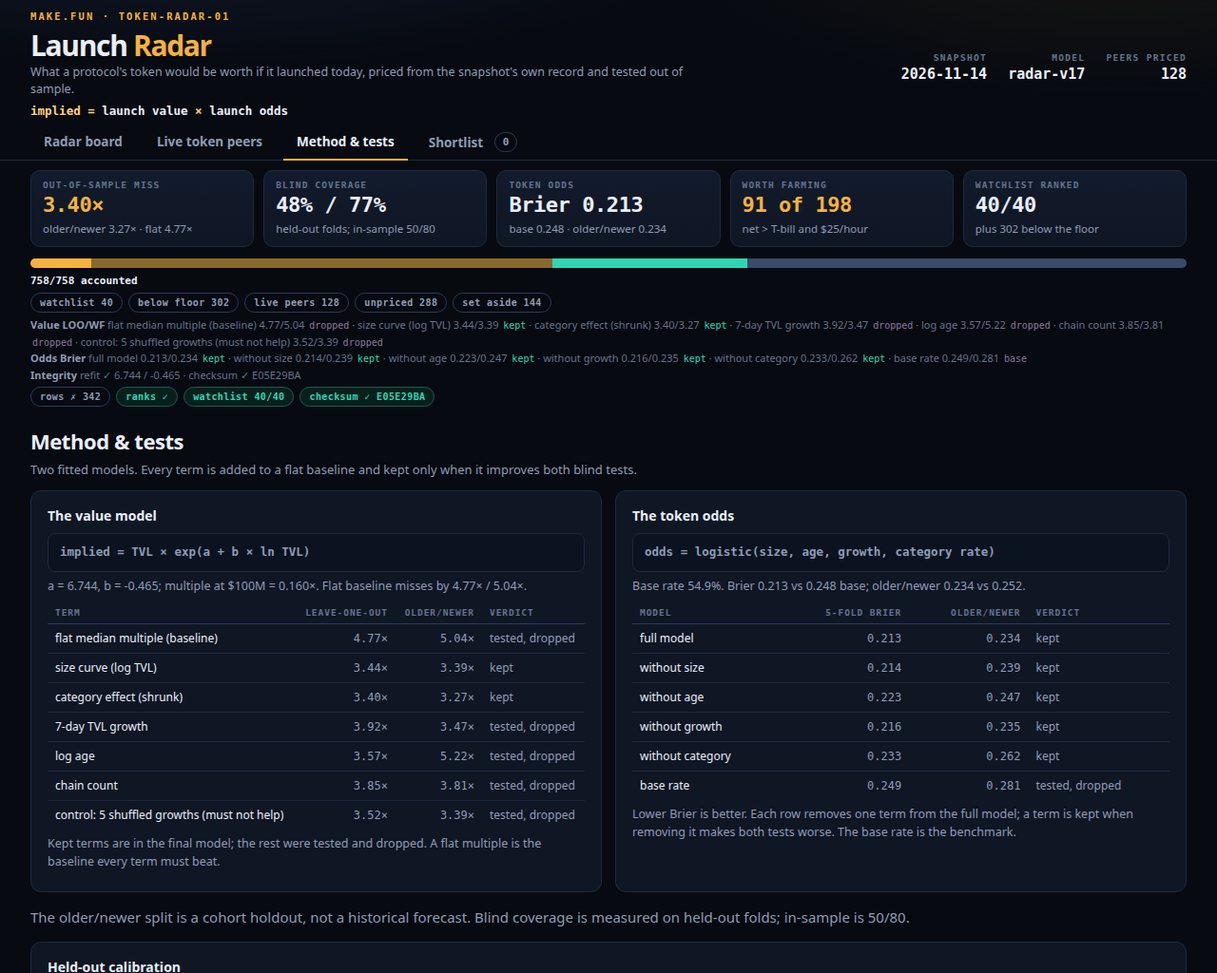
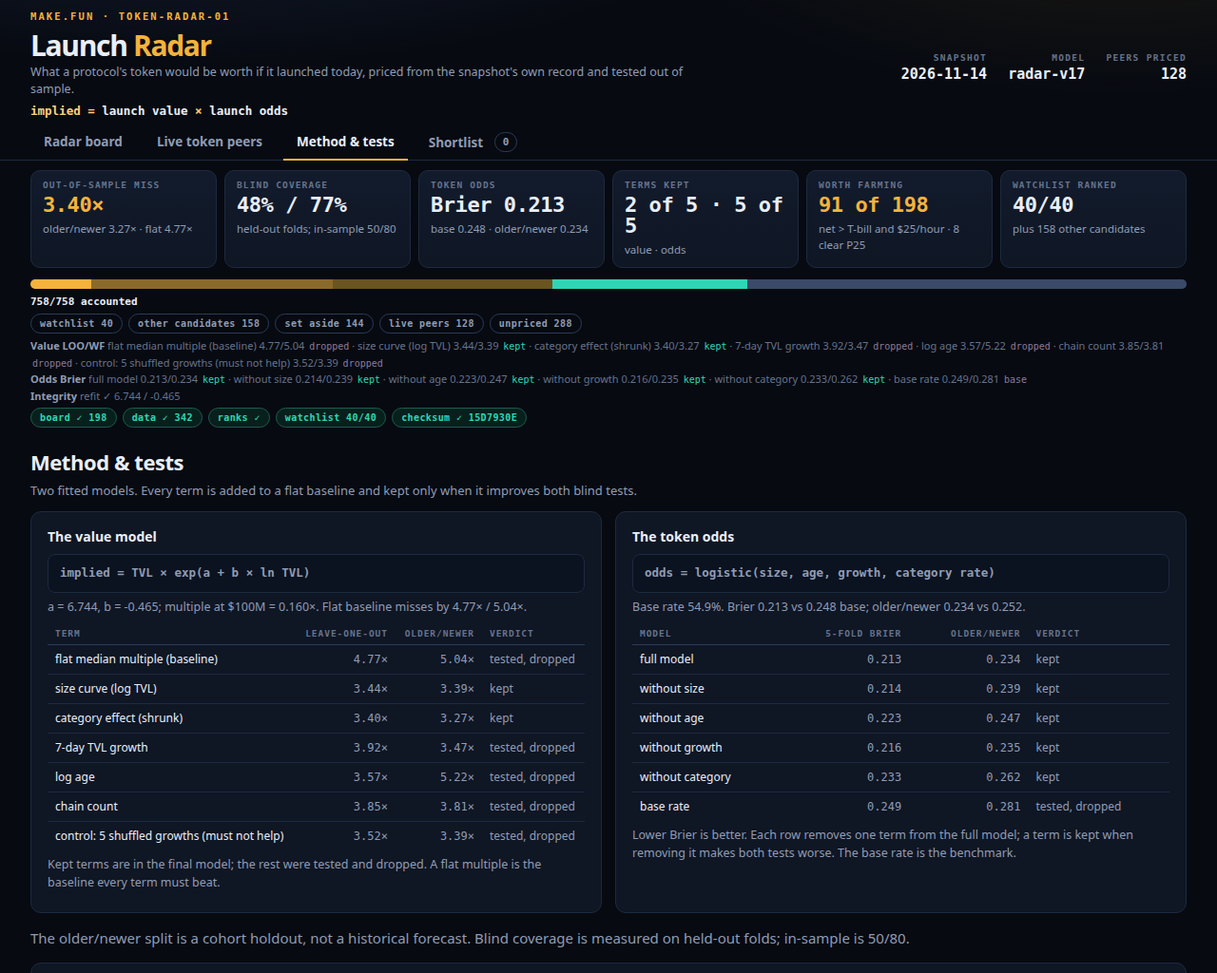
Tighten v17 accounting, integrity and detail evidence

Changed region(s): [[0.0, 0.1562, 0.9688, 1.0]]

diff --git a/dashboard/app.css b/dashboard/app.css
@@ -1,1 +1,1 @@
-:root{ --bg:#070a11;--panel:#0f1624;--panel2:#121b2c;--line:#1e2a40;--line2:#2b3b59; --text:#e9eef8;--mute:#8f9cb4;--dim:#66738c;--amber:#f5b33c;--amber2:#ffd07a; --teal:#2fd6b5;--red:#ff7b8a;--purple:#9a86b8; --mono:ui-monospace,"SF Mono",SFMono-Regular,Menlo,Consolas,monospace; }*{box-sizing:border-box}[hidden]{display:none!important}html{background:var(--bg)}body{margin:0;color:var(--text);font:15px/1.5 system-ui,-apple-system,"Segoe UI",Roboto,sans-serif; background:radial-gradient(1100px 420px at 16% -10%,#18233a 0%,transparent 60%),radial-gradient(900px 380px at 92% -6%,#1d1a12 0%,transparent 55%),var(--bg)}a{color:inherit}.skip{position:absolute;left:-999px;top:0;background:#fff;color:#000;padding:8px;z-index:20}.skip:focus{left:8px}.top{max-width:1440px;margin:0 auto;padding:12px 32px 6px;display:flex;justify-content:space-between;gap:24px;align-items:center}.eyebrow{display:block;font:600 10.5px/1 var(--mono);letter-spacing:.2em;text-transform:uppercase;color:var(--amber);margin-bottom:10px}h1{margin:0;font-size:30px;line-height:1;letter-spacing:-.045em;font-weight:740}h1 span{color:var(--amber)}.tagline{margin:4px 0 0;max-width:720px;color:var(--mute);font-size:12.5px}.stamp{display:flex;gap:22px;padding-top:4px}.stamp div{text-align:right}.stamp span{display:block;font:600 9.5px/1 var(--mono);letter-spacing:.14em;text-transform:uppercase;color:var(--dim)}.stamp b{display:block;margin-top:6px;font:600 15px/1 var(--mono)}.tabs{max-width:1440px;margin:0 auto;padding:0 32px;display:flex;gap:8px;border-bottom:1px solid var(--line)}.tabs a{padding:7px 14px;text-decoration:none;color:var(--mute);font-size:13.5px;font-weight:600;border-bottom:2px solid transparent;margin-bottom:-1px}.tabs a[aria-current=page]{color:var(--text);border-bottom-color:var(--amber)}.tabs a:hover{color:var(--text)}main{max-width:1440px;margin:0 auto;padding:10px 32px 30px}.kpis{display:grid;grid-template-columns:repeat(5,1fr);gap:10px}.kpi{background:linear-gradient(180deg,var(--panel2),var(--panel));border:1px solid var(--line);border-radius:10px;padding:10px 12px;min-height:74px}.kpi span{display:block;font:600 9.5px/1 var(--mono);letter-spacing:.12em;text-transform:uppercase;color:var(--dim)}.kpi b{display:block;margin-top:5px;font:600 22px/1 var(--mono);letter-spacing:-.02em}.kpi em{display:block;margin-top:5px;font-style:normal;font-size:11.5px;color:var(--mute)}.kpi.hot b{color:var(--amber)}.kpi.chartCard{display:flex;flex-direction:column;justify-content:space-between;padding:10px 10px 8px}.kpi.chartCard svg{width:100%;height:52px;display:block}.eqLine{margin:4px 0 0;color:var(--amber2);font:600 12.5px/1.4 var(--mono)}.eqLine b{color:var(--text)}.vchips{display:flex;gap:6px;margin:6px 0 10px;flex-wrap:wrap}.vchips button{font:600 10px/1.5 var(--mono);padding:3px 9px;border-radius:999px;background:transparent;color:var(--mute);border:1px solid var(--line2)}.vchips button.on{color:var(--amber2);border-color:#6a5420;background:#1f1808}.chipRow{display:flex;gap:6px;flex-wrap:wrap;margin-top:4px}.statusline{margin:12px 0 4px;color:var(--mute);font-size:12px}.ledgerBar{display:flex;height:10px;border-radius:5px;overflow:hidden;background:#1b2639;margin:0 0 5px}.ledgerBar i{display:block;height:100%}.ledgerBar i.w{background:var(--amber)}.ledgerBar i.e{background:#8a6a2a}.ledgerBar i.l{background:var(--teal)}.ledgerBar i.u{background:#3a4a68}.ledgerLegend{display:block;color:var(--dim);font-size:11px}.ledgerLegend b{color:var(--text);font-family:var(--mono)}.chip{display:inline-block;border:1px solid var(--line2);border-radius:999px;padding:2px 9px;font:600 10px/1.5 var(--mono);letter-spacing:.04em;color:var(--mute)}.chip.watch{color:var(--amber2);border-color:#6a5420;background:#231a08}.chip.ok{color:var(--teal);border-color:#1d5c50;background:#08201c}.flowArrow{color:#33415e;font:600 13px var(--mono)}.flowItem{color:var(--mute);font-size:12px}.flowItem b{font-family:var(--mono);color:var(--text);font-size:12.5px}.flowItem.hot b{color:var(--amber)}.flowItem.ok b{color:var(--teal)}.flowNote{color:var(--dim);font-size:11px;margin-left:8px}.contract{margin:0 0 14px;color:var(--dim);font-size:11px;line-height:1.55}.evLine b{color:var(--mute);font-weight:600}.evLine i{font-style:normal;font-family:var(--mono);font-size:10px;margin-left:2px}.evLine i.up{color:var(--teal)}.evLine i.flat{color:#8a7a9a}.shareTable{margin:8px 0 4px}.shareTable tr.current td{color:var(--text);font-weight:600}.shareTable td:last-child{text-transform:uppercase;font-size:10px;letter-spacing:.04em}.toolbar{display:flex;gap:12px;align-items:flex-end;flex-wrap:wrap;padding:12px 0 8px}.toolbar label{display:flex;flex-direction:column;gap:4px}.toolbar label>span{font:600 9.5px/1 var(--mono);letter-spacing:.12em;text-transform:uppercase;color:var(--dim)}input,select,button{font:inherit;color:var(--text);background:var(--panel2);border:1px solid var(--line2);border-radius:7px;padding:8px 11px}input::placeholder{color:var(--dim)}input:focus,select:focus,button:focus-visible,a:focus-visible{outline:2px solid var(--amber);outline-offset:2px}.search input{width:240px}button{cursor:pointer}button.ghost{background:transparent;color:var(--mute)}button.ghost:hover{color:var(--text);border-color:var(--amber)}.sub{padding:2px 0 10px;justify-content:space-between}.count{margin:0;color:var(--mute);font-size:12.5px}.count b{color:var(--text);font-family:var(--mono)}.legend{display:flex;gap:14px;align-items:center;color:var(--dim);font-size:11.5px}.legend span{display:flex;align-items:center;gap:6px}.legend .sep{width:1px;height:14px;background:var(--line2)}.legend .sample{font-style:normal}.dot{width:8px;height:8px;border-radius:50%;display:inline-block;background:var(--dim)}.dot.v-worth{background:var(--teal);box-shadow:0 0 8px #2fd6b566}.dot.v-marginal{background:var(--amber)}.dot.v-skip{background:#b06a7a}.tableWrap{border:1px solid var(--line);border-radius:11px;overflow:auto;max-height:calc(100vh - 340px);background:#0b111c}table{border-collapse:collapse;width:100%;min-width:1180px}#table{table-layout:fixed;min-width:0}#table th:nth-child(2),#table td:nth-child(2){width:58px}#table th:nth-child(3),#table td:nth-child(3){width:auto}#table th:nth-child(4),#table td:nth-child(4){width:92px}#table th:nth-child(5),#table td:nth-child(5){width:90px}#table th:nth-child(6),#table td:nth-child(6){width:105px}#table th:nth-child(7),#table td:nth-child(7){width:130px}#table th:nth-child(8),#table td:nth-child(8){width:80px}#table th:nth-child(9),#table td:nth-child(9){width:80px}th,td{padding:6px 8px;text-align:left;border-bottom:1px solid var(--line);vertical-align:middle}th{position:sticky;top:0;z-index:2;background:#111a2a;font:600 9.5px/1.2 var(--mono);letter-spacing:.1em;text-transform:uppercase;color:var(--dim);white-space:nowrap;cursor:pointer;user-select:none}th small{display:block;font:500 9px/1.3 var(--mono);letter-spacing:.02em;text-transform:none;color:#5b6880;margin-top:2px}th:hover{color:var(--text)}th[data-active=asc]::after{content:' ↑';color:var(--amber)}th[data-active=desc]::after{content:' ↓';color:var(--amber)}th.num,td.num{text-align:right;font-variant-numeric:tabular-nums}tbody tr{cursor:pointer}tbody tr:hover{background:#121c2e}tbody tr:last-child td{border-bottom:0}td.rank{font:600 12px/1 var(--mono);color:var(--dim)}td.rank b{color:var(--amber)}.name{font-weight:650;font-size:14px}.name .chip{margin-left:7px;vertical-align:1px}.subline{margin-top:2px;color:var(--dim);font-size:11.5px;max-width:300px;overflow:hidden;text-overflow:ellipsis;white-space:nowrap}td.money{font:600 12.5px/1 var(--mono)}td.implied{font:700 15px/1 var(--mono);color:var(--amber2)}td.multiple{font:500 12.5px/1 var(--mono)}td.age{font:500 11.5px/1 var(--mono);color:var(--mute)}td.bandText{font:500 11px/1 var(--mono);color:var(--mute);white-space:nowrap}.up{color:var(--teal)}.dn{color:var(--red)}.flat{color:var(--dim)}.starcol{width:34px;padding-right:0}.star{background:none;border:0;color:#3c4a63;font-size:17px;line-height:1;padding:2px 5px;border-radius:5px}.star:hover{color:var(--amber2)}.star.on{color:var(--amber)}.oddsCell{padding-top:6px;padding-bottom:6px}.odds{display:flex;align-items:center;gap:6px;justify-content:flex-end}.odds .track{width:52px;height:6px;background:#1b2639;border-radius:4px;overflow:hidden}.odds .track i{display:block;height:100%;background:linear-gradient(90deg,#1c6f60,#2fd6b5);border-radius:4px}.odds b{font:600 11px/1 var(--mono);color:var(--text);min-width:32px;text-align:right}.odds.wide{margin-top:4px}.odds.wide .track{width:100%;height:8px}.oddsBig{font:700 22px/1 var(--mono);color:var(--teal)}.verdict{display:inline-block;border-radius:5px;padding:2px 7px;font:700 9.5px/1.5 var(--mono);letter-spacing:.06em;border:1px solid transparent}.verdict.v-worth{background:#0b3a31;color:#5ff0d0;border-color:#1d6b5c}.verdict.v-marginal{background:#2a210c;color:#ffd07a;border-color:#6a5420}.verdict.v-skip{background:#2a1218;color:#ff9fae;border-color:#6a2a36}.verdictHead{display:flex;justify-content:space-between;align-items:center;gap:10px;margin-bottom:8px}.verdictHead b{font:600 13px/1.3 var(--mono)}.empty{padding:30px;text-align:center;color:var(--dim)}.footnote{margin:10px 2px 0;color:var(--dim);font-size:11.5px;max-width:960px}.pill{display:inline-block;margin-left:8px;border:1px solid var(--line2);border-radius:999px;padding:1px 8px;font:600 11px/1.6 var(--mono);color:var(--mute);vertical-align:2px}.sectionHead{padding:6px 0 12px}.sectionHead h2{margin:0 0 4px;font-size:22px;letter-spacing:-.02em}.sectionHead p{margin:0;color:var(--mute);font-size:13px;max-width:860px}.foot{max-width:1440px;margin:0 auto;padding:18px 32px 34px;border-top:1px solid var(--line);display:flex;justify-content:space-between;gap:20px;color:var(--dim);font-size:11.5px}.back{display:inline-flex;align-items:center;gap:8px;color:var(--mute);text-decoration:none;font-size:12.5px;margin:2px 0 14px}.back:hover{color:var(--amber)}.detailTop{border:1px solid var(--line);border-radius:12px;padding:18px 22px;background:linear-gradient(180deg,#141d2f,#0d1421)}.detailTitle{display:flex;align-items:baseline;gap:12px;flex-wrap:wrap;margin:0}.detailTitle h2{margin:0;font-size:32px;letter-spacing:-.03em}.rankChip{font:700 12px/1 var(--mono);color:#1b1305;background:var(--amber);border-radius:6px;padding:5px 8px}.rankChip.dim{background:#243149;color:var(--mute)}.detailMeta{margin-top:6px;color:var(--mute);font-size:13px}.detailMeta b{color:var(--text);font-weight:600}.notCand{margin-top:12px;border:1px solid #6a5420;background:#221a09;color:#ffd8a0;border-radius:8px;padding:9px 12px;font-size:12.5px}.statGrid{display:grid;grid-template-columns:repeat(4,1fr);gap:10px;margin:14px 0}.stat{background:var(--panel);border:1px solid var(--line);border-radius:10px;padding:12px 14px}.stat span{font:600 9.5px/1 var(--mono);letter-spacing:.12em;text-transform:uppercase;color:var(--dim)}.stat b{display:block;margin-top:7px;font:700 23px/1 var(--mono);letter-spacing:-.02em}.stat b.hot{color:var(--amber2)}.stat em{display:block;margin-top:5px;font-style:normal;color:var(--mute);font-size:11.5px}.cols{display:grid;grid-template-columns:1.02fr .98fr;gap:14px;align-items:start}.cols>*{min-width:0}.panel{background:var(--panel);border:1px solid var(--line);border-radius:11px;padding:15px 17px}.panel h3{margin:0 0 8px;font-size:14px}.panel h3:not(:first-child){margin-top:16px}.panel p{margin:6px 0;color:var(--mute);font-size:12.5px}.terms{display:grid;grid-template-columns:repeat(3,1fr);gap:8px;margin:10px 0}.term{background:#0b1220;border:1px solid var(--line);border-radius:8px;padding:9px 10px}.term span{display:block;font:600 9px/1.2 var(--mono);letter-spacing:.1em;text-transform:uppercase;color:var(--dim)}.term b{display:block;margin-top:5px;font:700 15px/1 var(--mono)}.term em{display:block;margin-top:4px;font-style:normal;font-size:10.5px;color:var(--dim)}.term.result{border-color:#6a5420;background:#1f1808}.term.result b{color:var(--amber2)}table.mini{width:100%;min-width:0;border-collapse:collapse;font-size:12px}table.mini th{position:static;background:transparent;border-bottom:1px solid var(--line2);padding:6px 8px;cursor:default;font-size:9.5px}table.mini td{padding:6px 8px;border-bottom:1px solid var(--line);color:var(--mute)}table.mini td:first-child{color:var(--text)}table.mini td.num{font-family:var(--mono)}.sandbox{margin:12px 0 6px;background:#0b1220;border:1px solid var(--line);border-radius:9px;padding:12px}.sbHead{display:flex;justify-content:space-between;align-items:center;gap:10px}.sbHead h4{margin:0;font-size:12px}.sbReset{font-size:11px;padding:3px 9px}.sbHint{margin:4px 0 8px;font-size:11px;color:var(--dim)}.sbRow{display:grid;grid-template-columns:94px 1fr 74px;gap:10px;align-items:center;font-size:11.5px;color:var(--mute);margin:5px 0}.sbRow input[type=range]{width:100%;accent-color:var(--amber);background:none;border:0;padding:0}.sbRow b{font-family:var(--mono);font-size:11.5px;color:var(--text);text-align:right}.sbOut{display:flex;gap:10px;align-items:baseline;margin-top:10px;border-top:1px solid var(--line);padding-top:9px;flex-wrap:wrap}.sbOut span{font:600 9px var(--mono);letter-spacing:.1em;text-transform:uppercase;color:var(--dim)}.sbOut b{font:700 19px var(--mono);color:var(--amber2)}.sbOut em{font-style:normal;color:var(--dim);font-size:10.5px}.planTable{table-layout:fixed;width:100%}.planTable td{vertical-align:top}.planTable th:nth-child(1),.planTable td:nth-child(1){width:24px}.planTable th:nth-child(3),.planTable td.cost{width:110px}.planTable th:nth-child(4),.planTable td.time{width:70px}.planTable td:nth-child(2){white-space:normal;word-break:break-word;color:var(--mute);line-height:1.45}.planTable td.cost{font-family:var(--mono);white-space:normal;line-height:1.35;color:var(--amber2);font-size:11px}.planTable td.time{font-family:var(--mono);white-space:normal;line-height:1.35;color:var(--dim);font-size:11px}.verdict{border-left:0}.verdictHead + .terms{margin-top:8px}.dd{margin:6px 0 0;padding-left:18px;color:var(--mute);font-size:12.5px}.dd li{margin:4px 0}.muted{color:var(--mute)}.eq{font:600 14px/1.5 var(--mono);color:var(--amber2);background:#0b1220;border:1px solid var(--line);border-radius:8px;padding:10px 12px}.chartWide{margin-bottom:14px}#calChart svg{width:100%;height:auto;display:block}.methodGrid{display:grid;grid-template-columns:1fr 1fr;gap:14px;margin-bottom:14px}.scoreRow{display:flex;gap:10px;margin-top:10px;flex-wrap:wrap}.score{background:#0b1220;border:1px solid var(--line);border-radius:8px;padding:9px 12px;flex:1;min-width:110px}.score span{display:block;font:600 9px/1.2 var(--mono);letter-spacing:.1em;text-transform:uppercase;color:var(--dim)}.score b{display:block;margin-top:4px;font:700 18px/1 var(--mono)}.score em{display:block;margin-top:3px;font-style:normal;font-size:10.5px;color:var(--dim)}.limits{margin:6px 0;padding-left:18px;color:var(--mute);font-size:12.5px}.limits li{margin:4px 0}.source{margin-top:10px;font-size:11px;word-break:break-word}.compareTable{width:100%;border-collapse:collapse;background:var(--panel);border:1px solid var(--line);border-radius:10px;overflow:hidden;font-size:12.5px}.compareTable th,.compareTable td{padding:9px 12px;border-bottom:1px solid var(--line);text-align:left}.compareTable th{position:static;background:#111a2a;font:600 10px var(--mono);letter-spacing:.1em;text-transform:uppercase;color:var(--dim);cursor:default}.compareTable th.num,.compareTable td.num{text-align:right;font-family:var(--mono)}.compareTable td:first-child{color:var(--mute);white-space:nowrap}.inlineLink{color:var(--amber);text-decoration:none;border-bottom:1px solid #6a5420}@media (max-width:1100px){.kpis{grid-template-columns:repeat(3,1fr)}.cols,.methodGrid{grid-template-columns:1fr}.terms{grid-template-columns:repeat(2,1fr)}.statGrid{grid-template-columns:repeat(2,1fr)}.stamp{display:none}}.planTotals{grid-template-columns:repeat(6,1fr)}.planList{margin-top:8px}@media (max-width:1100px){.planTotals{grid-template-columns:repeat(3,1fr)}}
+:root{ --bg:#070a11;--panel:#0f1624;--panel2:#121b2c;--line:#1e2a40;--line2:#2b3b59; --text:#e9eef8;--mute:#8f9cb4;--dim:#66738c;--amber:#f5b33c;--amber2:#ffd07a; --teal:#2fd6b5;--red:#ff7b8a;--purple:#9a86b8; --mono:ui-monospace,"SF Mono",SFMono-Regular,Menlo,Consolas,monospace; }*{box-sizing:border-box}[hidden]{display:none!important}html{background:var(--bg)}body{margin:0;color:var(--text);font:15px/1.5 system-ui,-apple-system,"Segoe UI",Roboto,sans-serif; background:radial-gradient(1100px 420px at 16% -10%,#18233a 0%,transparent 60%),radial-gradient(900px 380px at 92% -6%,#1d1a12 0%,transparent 55%),var(--bg)}a{color:inherit}.skip{position:absolute;left:-999px;top:0;background:#fff;color:#000;padding:8px;z-index:20}.skip:focus{left:8px}.top{max-width:1440px;margin:0 auto;padding:12px 32px 6px;display:flex;justify-content:space-between;gap:24px;align-items:center}.eyebrow{display:block;font:600 10.5px/1 var(--mono);letter-spacing:.2em;text-transform:uppercase;color:var(--amber);margin-bottom:10px}h1{margin:0;font-size:30px;line-height:1;letter-spacing:-.045em;font-weight:740}h1 span{color:var(--amber)}.tagline{margin:4px 0 0;max-width:720px;color:var(--mute);font-size:12.5px}.stamp{display:flex;gap:22px;padding-top:4px}.stamp div{text-align:right}.stamp span{display:block;font:600 9.5px/1 var(--mono);letter-spacing:.14em;text-transform:uppercase;color:var(--dim)}.stamp b{display:block;margin-top:6px;font:600 15px/1 var(--mono)}.tabs{max-width:1440px;margin:0 auto;padding:0 32px;display:flex;gap:8px;border-bottom:1px solid var(--line)}.tabs a{padding:7px 14px;text-decoration:none;color:var(--mute);font-size:13.5px;font-weight:600;border-bottom:2px solid transparent;margin-bottom:-1px}.tabs a[aria-current=page]{color:var(--text);border-bottom-color:var(--amber)}.tabs a:hover{color:var(--text)}main{max-width:1440px;margin:0 auto;padding:10px 32px 30px}.kpis{display:grid;grid-template-columns:repeat(6,1fr);gap:8px}.kpi{background:linear-gradient(180deg,var(--panel2),var(--panel));border:1px solid var(--line);border-radius:10px;padding:10px 12px;min-height:74px}.kpi span{display:block;font:600 9.5px/1 var(--mono);letter-spacing:.12em;text-transform:uppercase;color:var(--dim)}.kpi b{display:block;margin-top:5px;font:600 22px/1 var(--mono);letter-spacing:-.02em}.kpi em{display:block;margin-top:5px;font-style:normal;font-size:11.5px;color:var(--mute)}.kpi.hot b{color:var(--amber)}.kpi.chartCard{display:flex;flex-direction:column;justify-content:space-between;padding:10px 10px 8px}.kpi.chartCard svg{width:100%;height:52px;display:block}.eqLine{margin:4px 0 0;color:var(--amber2);font:600 12.5px/1.4 var(--mono)}.eqLine b{color:var(--text)}.vchips{display:flex;gap:6px;margin:6px 0 10px;flex-wrap:wrap}.vchips button{font:600 10px/1.5 var(--mono);padding:3px 9px;border-radius:999px;background:transparent;color:var(--mute);border:1px solid var(--line2)}.vchips button.on{color:var(--amber2);border-color:#6a5420;background:#1f1808}.chipRow{display:flex;gap:6px;flex-wrap:wrap;margin-top:4px}.statusline{margin:12px 0 4px;color:var(--mute);font-size:12px}.ledgerBar{display:flex;height:10px;border-radius:5px;overflow:hidden;background:#1b2639;margin:0 0 5px}.ledgerBar i{display:block;height:100%}.ledgerBar i.w{background:var(--amber)}.ledgerBar i.e{background:#8a6a2a}.ledgerBar i.s{background:#6a5420}.ledgerBar i.l{background:var(--teal)}.ledgerBar i.u{background:#3a4a68}.ledgerLegend{display:block;color:var(--dim);font-size:11px}.ledgerLegend b{color:var(--text);font-family:var(--mono)}.chip{display:inline-block;border:1px solid var(--line2);border-radius:999px;padding:2px 9px;font:600 10px/1.5 var(--mono);letter-spacing:.04em;color:var(--mute)}.chip.watch{color:var(--amber2);border-color:#6a5420;background:#231a08}.chip.ok{color:var(--teal);border-color:#1d5c50;background:#08201c}.flowArrow{color:#33415e;font:600 13px var(--mono)}.flowItem{color:var(--mute);font-size:12px}.flowItem b{font-family:var(--mono);color:var(--text);font-size:12.5px}.flowItem.hot b{color:var(--amber)}.flowItem.ok b{color:var(--teal)}.flowNote{color:var(--dim);font-size:11px;margin-left:8px}.contract{margin:0 0 14px;color:var(--dim);font-size:11px;line-height:1.55}.evLine b{color:var(--mute);font-weight:600}.evLine i{font-style:normal;font-family:var(--mono);font-size:10px;margin-left:2px}.evLine i.up{color:var(--teal)}.evLine i.flat{color:#8a7a9a}.shareTable{margin:8px 0 4px}.shareTable tr.current td{color:var(--text);font-weight:600}.shareTable td:last-child{text-transform:uppercase;font-size:10px;letter-spacing:.04em}.toolbar{display:flex;gap:12px;align-items:flex-end;flex-wrap:wrap;padding:12px 0 8px}.toolbar label{display:flex;flex-direction:column;gap:4px}.toolbar label>span{font:600 9.5px/1 var(--mono);letter-spacing:.12em;text-transform:uppercase;color:var(--dim)}input,select,button{font:inherit;color:var(--text);background:var(--panel2);border:1px solid var(--line2);border-radius:7px;padding:8px 11px}input::placeholder{color:var(--dim)}input:focus,select:focus,button:focus-visible,a:focus-visible{outline:2px solid var(--amber);outline-offset:2px}.search input{width:240px}button{cursor:pointer}button.ghost{background:transparent;color:var(--mute)}button.ghost:hover{color:var(--text);border-color:var(--amber)}.sub{padding:2px 0 10px;justify-content:space-between}.count{margin:0;color:var(--mute);font-size:12.5px}.count b{color:var(--text);font-family:var(--mono)}.legend{display:flex;gap:14px;align-items:center;color:var(--dim);font-size:11.5px}.legend span{display:flex;align-items:center;gap:6px}.legend .sep{width:1px;height:14px;background:var(--line2)}.legend .sample{font-style:normal}.dot{width:8px;height:8px;border-radius:50%;display:inline-block;background:var(--dim)}.dot.v-worth{background:var(--teal);box-shadow:0 0 8px #2fd6b566}.dot.v-marginal{background:var(--amber)}.dot.v-skip{background:#b06a7a}.tableWrap{border:1px solid var(--line);border-radius:11px;overflow:auto;max-height:calc(100vh - 340px);background:#0b111c}table{border-collapse:collapse;width:100%;min-width:1180px}#table{table-layout:fixed;min-width:0}#table th:nth-child(2),#table td:nth-child(2){width:58px}#table th:nth-child(3),#table td:nth-child(3){width:auto}#table th:nth-child(4),#table td:nth-child(4){width:92px}#table th:nth-child(5),#table td:nth-child(5){width:90px}#table th:nth-child(6),#table td:nth-child(6){width:105px}#table th:nth-child(7),#table td:nth-child(7){width:130px}#table th:nth-child(8),#table td:nth-child(8){width:80px}#table th:nth-child(9),#table td:nth-child(9){width:80px}th,td{padding:6px 8px;text-align:left;border-bottom:1px solid var(--line);vertical-align:middle}th{position:sticky;top:0;z-index:2;background:#111a2a;font:600 9.5px/1.2 var(--mono);letter-spacing:.1em;text-transform:uppercase;color:var(--dim);white-space:nowrap;cursor:pointer;user-select:none}th small{display:block;font:500 9px/1.3 var(--mono);letter-spacing:.02em;text-transform:none;color:#5b6880;margin-top:2px}th:hover{color:var(--text)}th[data-active=asc]::after{content:' ↑';color:var(--amber)}th[data-active=desc]::after{content:' ↓';color:var(--amber)}th.num,td.num{text-align:right;font-variant-numeric:tabular-nums}tbody tr{cursor:pointer}tbody tr:hover{background:#121c2e}tbody tr:last-child td{border-bottom:0}td.rank{font:600 12px/1 var(--mono);color:var(--dim)}td.rank b{color:var(--amber)}.name{font-weight:650;font-size:14px}.name .chip{margin-left:7px;vertical-align:1px}.subline{margin-top:2px;color:var(--dim);font-size:11.5px;max-width:300px;overflow:hidden;text-overflow:ellipsis;white-space:nowrap}td.money{font:600 12.5px/1 var(--mono)}td.implied{font:700 15px/1 var(--mono);color:var(--amber2)}td.multiple{font:500 12.5px/1 var(--mono)}td.age{font:500 11.5px/1 var(--mono);color:var(--mute)}td.bandText{font:500 11px/1 var(--mono);color:var(--mute);white-space:nowrap}.up{color:var(--teal)}.dn{color:var(--red)}.flat{color:var(--dim)}.starcol{width:34px;padding-right:0}.star{background:none;border:0;color:#3c4a63;font-size:17px;line-height:1;padding:2px 5px;border-radius:5px}.star:hover{color:var(--amber2)}.star.on{color:var(--amber)}.oddsCell{padding-top:6px;padding-bottom:6px}.odds{display:flex;align-items:center;gap:6px;justify-content:flex-end}.odds .track{width:52px;height:6px;background:#1b2639;border-radius:4px;overflow:hidden}.odds .track i{display:block;height:100%;background:linear-gradient(90deg,#1c6f60,#2fd6b5);border-radius:4px}.odds b{font:600 11px/1 var(--mono);color:var(--text);min-width:32px;text-align:right}.odds.wide{margin-top:4px}.odds.wide .track{width:100%;height:8px}.oddsBig{font:700 22px/1 var(--mono);color:var(--teal)}.verdict{display:inline-block;border-radius:5px;padding:2px 7px;font:700 9.5px/1.5 var(--mono);letter-spacing:.06em;border:1px solid transparent}.verdict.v-worth{background:#0b3a31;color:#5ff0d0;border-color:#1d6b5c}.verdict.v-marginal{background:#2a210c;color:#ffd07a;border-color:#6a5420}.verdict.v-skip{background:#2a1218;color:#ff9fae;border-color:#6a2a36}.verdictHead{display:flex;justify-content:space-between;align-items:center;gap:10px;margin-bottom:8px}.verdictHead b{font:600 13px/1.3 var(--mono)}.empty{padding:30px;text-align:center;color:var(--dim)}.footnote{margin:10px 2px 0;color:var(--dim);font-size:11.5px;max-width:960px}.pill{display:inline-block;margin-left:8px;border:1px solid var(--line2);border-radius:999px;padding:1px 8px;font:600 11px/1.6 var(--mono);color:var(--mute);vertical-align:2px}.sectionHead{padding:6px 0 12px}.sectionHead h2{margin:0 0 4px;font-size:22px;letter-spacing:-.02em}.sectionHead p{margin:0;color:var(--mute);font-size:13px;max-width:860px}.foot{max-width:1440px;margin:0 auto;padding:18px 32px 34px;border-top:1px solid var(--line);display:flex;justify-content:space-between;gap:20px;color:var(--dim);font-size:11.5px}.back{display:inline-flex;align-items:center;gap:8px;color:var(--mute);text-decoration:none;font-size:12.5px;margin:2px 0 14px}.back:hover{color:var(--amber)}.detailTop{border:1px solid var(--line);border-radius:12px;padding:18px 22px;background:linear-gradient(180deg,#141d2f,#0d1421)}.detailTitle{display:flex;align-items:baseline;gap:12px;flex-wrap:wrap;margin:0}.detailTitle h2{margin:0;font-size:32px;letter-spacing:-.03em}.rankChip{font:700 12px/1 var(--mono);color:#1b1305;background:var(--amber);border-radius:6px;padding:5px 8px}.rankChip.dim{background:#243149;color:var(--mute)}.detailMeta{margin-top:6px;color:var(--mute);font-size:13px}.detailMeta b{color:var(--text);font-weight:600}.notCand{margin-top:12px;border:1px solid #6a5420;background:#221a09;color:#ffd8a0;border-radius:8px;padding:9px 12px;font-size:12.5px}.statGrid{display:grid;grid-template-columns:repeat(4,1fr);gap:10px;margin:14px 0}.stat{background:var(--panel);border:1px solid var(--line);border-radius:10px;padding:12px 14px}.stat span{font:600 9.5px/1 var(--mono);letter-spacing:.12em;text-transform:uppercase;color:var(--dim)}.stat b{display:block;margin-top:7px;font:700 23px/1 var(--mono);letter-spacing:-.02em}.stat b.hot{color:var(--amber2)}.stat em{display:block;margin-top:5px;font-style:normal;color:var(--mute);font-size:11.5px}.cols{display:grid;grid-template-columns:1.02fr .98fr;gap:14px;align-items:start}.cols>*{min-width:0}.panel{background:var(--panel);border:1px solid var(--line);border-radius:11px;padding:15px 17px}.panel h3{margin:0 0 8px;font-size:14px}.panel h3:not(:first-child){margin-top:16px}.panel p{margin:6px 0;color:var(--mute);font-size:12.5px}.terms{display:grid;grid-template-columns:repeat(3,1fr);gap:8px;margin:10px 0}.term{background:#0b1220;border:1px solid var(--line);border-radius:8px;padding:9px 10px}.term span{display:block;font:600 9px/1.2 var(--mono);letter-spacing:.1em;text-transform:uppercase;color:var(--dim)}.term b{display:block;margin-top:5px;font:700 15px/1 var(--mono)}.term em{display:block;margin-top:4px;font-style:normal;font-size:10.5px;color:var(--dim)}.term.result{border-color:#6a5420;background:#1f1808}.term.result b{color:var(--amber2)}table.mini{width:100%;min-width:0;border-collapse:collapse;font-size:12px}table.mini th{position:static;background:transparent;border-bottom:1px solid var(--line2);padding:6px 8px;cursor:default;font-size:9.5px}table.mini td{padding:6px 8px;border-bottom:1px solid var(--line);color:var(--mute)}table.mini td:first-child{color:var(--text)}table.mini td.num{font-family:var(--mono)}.sandbox{margin:12px 0 6px;background:#0b1220;border:1px solid var(--line);border-radius:9px;padding:12px}.sbHead{display:flex;justify-content:space-between;align-items:center;gap:10px}.sbHead h4{margin:0;font-size:12px}.sbReset{font-size:11px;padding:3px 9px}.sbHint{margin:4px 0 8px;font-size:11px;color:var(--dim)}.sbRow{display:grid;grid-template-columns:94px 1fr 74px;gap:10px;align-items:center;font-size:11.5px;color:var(--mute);margin:5px 0}.sbRow input[type=range]{width:100%;accent-color:var(--amber);background:none;border:0;padding:0}.sbRow b{font-family:var(--mono);font-size:11.5px;color:var(--text);text-align:right}.sbOut{display:flex;gap:10px;align-items:baseline;margin-top:10px;border-top:1px solid var(--line);padding-top:9px;flex-wrap:wrap}.sbOut span{font:600 9px var(--mono);letter-spacing:.1em;text-transform:uppercase;color:var(--dim)}.sbOut b{font:700 19px var(--mono);color:var(--amber2)}.sbOut em{font-style:normal;color:var(--dim);font-size:10.5px}.planTable{table-layout:fixed;width:100%}.planTable td{vertical-align:top}.planTable th:nth-child(1),.planTable td:nth-child(1){width:24px}.planTable th:nth-child(3),.planTable td.cost{width:110px}.planTable th:nth-child(4),.planTable td.time{width:70px}.planTable td:nth-child(2){white-space:normal;word-break:break-word;color:var(--mute);line-height:1.45}.planTable td.cost{font-family:var(--mono);white-space:normal;line-height:1.35;color:var(--amber2);font-size:11px}.planTable td.time{font-family:var(--mono);white-space:normal;line-height:1.35;color:var(--dim);font-size:11px}.verdict{border-left:0}.verdictHead + .terms{margin-top:8px}.dd{margin:6px 0 0;padding-left:18px;color:var(--mute);font-size:12.5px}.dd li{margin:4px 0}.muted{color:var(--mute)}.eq{font:600 14px/1.5 var(--mono);color:var(--amber2);background:#0b1220;border:1px solid var(--line);border-radius:8px;padding:10px 12px}.chartWide{margin-bottom:14px}#calChart svg{width:100%;height:auto;display:block}.methodGrid{display:grid;grid-template-columns:1fr 1fr;gap:14px;margin-bottom:14px}.scoreRow{display:flex;gap:10px;margin-top:10px;flex-wrap:wrap}.score{background:#0b1220;border:1px solid var(--line);border-radius:8px;padding:9px 12px;flex:1;min-width:110px}.score span{display:block;font:600 9px/1.2 var(--mono);letter-spacing:.1em;text-transform:uppercase;color:var(--dim)}.score b{display:block;margin-top:4px;font:700 18px/1 var(--mono)}.score em{display:block;margin-top:3px;font-style:normal;font-size:10.5px;color:var(--dim)}.limits{margin:6px 0;padding-left:18px;color:var(--mute);font-size:12.5px}.limits li{margin:4px 0}.source{margin-top:10px;font-size:11px;word-break:break-word}.compareTable{width:100%;border-collapse:collapse;background:var(--panel);border:1px solid var(--line);border-radius:10px;overflow:hidden;font-size:12.5px}.compareTable th,.compareTable td{padding:9px 12px;border-bottom:1px solid var(--line);text-align:left}.compareTable th{position:static;background:#111a2a;font:600 10px var(--mono);letter-spacing:.1em;text-transform:uppercase;color:var(--dim);cursor:default}.compareTable th.num,.compareTable td.num{text-align:right;font-family:var(--mono)}.compareTable td:first-child{color:var(--mute);white-space:nowrap}.inlineLink{color:var(--amber);text-decoration:none;border-bottom:1px solid #6a5420}@media (max-width:1100px){.kpis{grid-template-columns:repeat(3,1fr)}.cols,.methodGrid{grid-template-columns:1fr}.terms{grid-template-columns:repeat(2,1fr)}.statGrid{grid-template-columns:repeat(2,1fr)}.stamp{display:none}}.planTotals{grid-template-columns:repeat(6,1fr)}.planList{margin-top:8px}@media (max-width:1100px){.planTotals{grid-template-columns:repeat(3,1fr)}}

diff --git a/dashboard/app.js b/dashboard/app.js
@@ -10,7 +10,7 @@ var SVGNS = 'http://www.w3.org/2000/svg';
 function checksumOf(rows) {
 var h = 2166136261;
 rows.forEach(function (r) {
-var s = r.slug + '|' + r.rank + '|' + r.implied;
+var s = r.slug + '|' + r.candidateRank + '|' + r.implied;
 for (var i = 0; i < s.length; i++) { h ^= s.charCodeAt(i); h = Math.imul(h, 16777619) >>> 0; }
 });
 return h.toString(16).toUpperCase().padStart(8, '0');
@@ -99,7 +99,6 @@ if (parts[0] === 'p' && parts[1]) return { name: 'detail', slug: decodeURICompon
 if (parts[0] === 'live') return { name: 'live' };
 if (parts[0] === 'method') return { name: 'method' };
 if (parts[0] === 'compare') return { name: 'compare', params: params };
-if (parts[0] === 'plan') return { name: 'plan' };
 return { name: 'board', params: params };
 }
 function show(name) {
@@ -120,12 +119,18 @@ function renderChrome() {
 $('#asOf').textContent = R.asOf;
 $('#peerCount').textContent = FMT.format(R.counts.live);
 var v = R.model.value, o = R.model.odds, c = R.counts;
+var vAll = v.terms.filter(function (t) { return !/baseline|control/.test(t.term); });
+var vKept = vAll.filter(function (t) { return t.kept; });
+var oAll = o.terms.filter(function (t) { return t.term !== 'base rate'; });
+var oKept = oAll.filter(function (t) { return t.kept; });
+var p25Worth = R.rows.filter(function (r) { return r.candidate && r.plan.p25Verdict === 'worth'; }).length;
 var kpis = [
 ['Out-of-sample miss', v.loo.toFixed(2) + '×', 'older/newer ' + v.wf.toFixed(2) + '× · flat ' + v.baselineLoo.toFixed(2) + '×', true],
 ['Blind coverage', Math.round(v.coverage.outerP25 * 100) + '% / ' + Math.round(v.coverage.outerP10 * 100) + '%', 'held-out folds; in-sample 50/80', false],
 ['Token odds', 'Brier ' + o.brier.toFixed(3), 'base ' + o.brierBase.toFixed(3) + ' · older/newer ' + o.brierWf.toFixed(3), false],
-['Worth farming', c.worth + ' of ' + c.candidates, 'net > T-bill and $25/hour', true],
-['Watchlist ranked', c.watchlistCovered + '/' + c.watchlist, 'plus ' + (c.preToken - c.watchlist) + ' below the floor', false]
+['Terms kept', vKept.length + '/' + vAll.length + ' · ' + oKept.length + '/' + oAll.length, 'value · odds', false],
+['Worth farming', c.worth + ' of ' + c.candidates, 'net > T-bill and $25/hour · ' + p25Worth + ' clear P25', true],
+['Watchlist ranked', c.watchlistCovered + '/' + c.watchlist, 'plus ' + (c.candidates - c.watchlist) + ' other candidates', false]
 ];
 var box = $('#kpis');
 box.replaceChildren();
@@ -142,7 +147,8 @@ line.replaceChildren();
 var bar = el('div', 'ledgerBar');
 [
 [c.watchlist, 'w', 'watchlist'],
-[c.preToken - c.watchlist, 'e', 'below the floor'],
+[c.candidates - c.watchlist, 'e', 'other candidates'],
+[c.preToken - c.candidates, 's', 'set aside'],
 [c.live, 'l', 'live peers'],
 [c.unpriced, 'u', 'unpriced records']
 ].forEach(function (seg) {
@@ -156,7 +162,7 @@ var legend = el('span', 'ledgerLegend');
 legend.appendChild(el('b', null, '758/758 accounted'));
 line.appendChild(legend);
 var acct = el('div', 'chipRow');
-[['watchlist', c.watchlist], ['below floor', c.preToken - c.watchlist], ['live peers', c.live], ['unpriced', c.unpriced], ['set aside', c.preToken - c.candidates]].forEach(function (x) {
+[['watchlist', c.watchlist], ['other candidates', c.candidates - c.watchlist], ['set aside', c.preToken - c.candidates], ['live peers', c.live], ['unpriced', c.unpriced]].forEach(function (x) {
 acct.appendChild(chip(x[0] + ' ' + x[1], ''));
 });
 line.appendChild(acct);
@@ -179,14 +185,17 @@ oline.appendChild(el('i', t.kept ? 'up' : 'flat', t.kept ? 'kept' : 'base'));
 });
 contract.appendChild(oline);
 var cline = el('div', 'evLine');
-var rf = refit(), cs = checksumOf(R.rows);
+var rf = refit(), cs = checksumOf(R.rows.filter(function (r) { return r.candidate; }));
 cline.appendChild(el('b', null, 'Integrity '));
-cline.appendChild(document.createTextNode('refit ' + (rf.ok ? '✓' : '✗') + ' ' + rf.a.toFixed(3) + ' / ' + rf.b.toFixed(3) + ' · checksum ' + (cs === R.checksum ? '✓ ' : '✗ ') + cs));
+cline.appendChild(document.createTextNode('refit ' + (rf.ok ? '✓' : '✗') + ' ' + rf.a.toFixed(3) + ' / ' + rf.b.toFixed(3)));
 contract.appendChild(cline);
 var rowsOk = R.rows.every(function (r) { return Math.abs(Math.round(r.launch * r.odds) - r.implied) <= 1; });
-var orderOk = R.rows.every(function (r, i) { return i === 0 || R.rows[i - 1].implied >= r.implied; });
+var cand = R.rows.filter(function (r) { return r.candidate; });
+var candOk = cand.every(function (r) { return Math.abs(Math.round(r.launch * r.odds) - r.implied) <= 1; });
+var orderOk = cand.every(function (r, i) { return i === 0 || cand[i - 1].implied >= r.implied; });
 var chipRow = el('div', 'chipRow');
-chipRow.appendChild(chip('rows ' + (rowsOk ? '✓ ' : '✗ ') + R.rows.length, rowsOk ? 'ok' : ''));
+chipRow.appendChild(chip('board ' + (candOk ? '✓ ' : '✗ ') + cand.length, candOk ? 'ok' : ''));
+chipRow.appendChild(chip('data ' + (rowsOk ? '✓ ' : '✗ ') + R.rows.length, rowsOk ? 'ok' : ''));
 chipRow.appendChild(chip('ranks ' + (orderOk ? '✓' : '✗'), orderOk ? 'ok' : ''));
 chipRow.appendChild(chip('watchlist ' + R.counts.watchlistCovered + '/' + R.counts.watchlist, R.counts.watchlistCovered === R.counts.watchlist ? 'ok' : ''));
 chipRow.appendChild(chip('checksum ' + (cs === R.checksum ? '✓ ' : '✗ ') + cs, cs === R.checksum ? 'ok' : ''));
@@ -274,7 +283,7 @@ tr.appendChild(starTd);
 
 var rank = el('td', 'rank');
 rank.appendChild(el('b', null, r.candidate ? '#' + r.candidateRank : '—'));
-rank.appendChild(el('div', 'subline', '#' + r.rank));
+rank.appendChild(el('div', 'subline', r.rankLow + '–' + r.rankHigh));
 tr.appendChild(rank);
 
 var name = el('td');
@@ -323,7 +332,7 @@ function exportCsv(rows) {
 function cell(v) { var t = v === null || v === undefined ? '' : String(v); return /[",\n]/.test(t) ? '"' + t.replace(/"/g, '""') + '"' : t; }
 var head = ['rank', 'candidate_rank', 'name', 'slug', 'category', 'chains', 'tvl_usd', 'change_7d', 'age_days', 'token_odds', 'launch_value_usd', 'implied_value_usd', 'p25_usd', 'p75_usd', 'farm_verdict', 'drop_usd', 'fees_usd', 'net_usd', 'net_per_hour', 'watchlist', 'candidate'];
 var lines = [head.join(',')].concat(rows.map(function (r) {
-return [r.rank, r.candidateRank, r.name, r.slug, r.category, r.chains.join('|'), r.tvl, r.ch7, r.age, r.odds, r.launch, r.implied, r.p25, r.p75, r.plan.verdict, r.plan.drop, r.plan.fees, r.plan.net, r.plan.perHour, r.watch, r.candidate].map(cell).join(',');
+return [r.candidateRank, r.candidateRank, r.name, r.slug, r.category, r.chains.join('|'), r.tvl, r.ch7, r.age, r.odds, r.launch, r.implied, r.p25, r.p75, r.plan.verdict, r.plan.drop, r.plan.fees, r.plan.net, r.plan.perHour, r.watch, r.candidate].map(cell).join(',');
 }));
 var blob = new Blob([lines.join('\n')], { type: 'text/csv' });
 var a = document.createElement('a');
@@ -473,7 +482,7 @@ var stats = el('div', 'statGrid');
 [
 ['Implied value', money(r.implied), 'launch ' + money(r.launch) + ' × ' + Math.round(r.odds * 100) + '% odds', true],
 ['If it launches', money(r.launch), 'if launched', false],
-['P25–P75', money(r.p25) + ' – ' + money(r.p75), 'half of held-out peers', false],
+['P25–P75', money(r.p25) + ' – ' + money(r.p75), 'launch band; ' + Math.round(R.model.value.coverage.outerP25 * 100) + '% blind', false],
 ['TVL', money(r.tvl), pct(r.ch7) + ' over 7 days', false]
 ].forEach(function (s) {
 var d = el('div', 'stat');
@@ -550,7 +559,7 @@ var vh = el('div', 'verdictHead');
 vh.appendChild(el('span', 'verdict v-' + r.plan.verdict, r.plan.verdict.toUpperCase()));
 vh.appendChild(el('b', null, '$' + f.net.toFixed(0) + ' expected · $' + f.perHour.toFixed(0) + ' per hour'));
 right.appendChild(vh);
-right.appendChild(el('p', 'muted', 'If it launches: $' + r.plan.launchNet.toFixed(0) + ' net. Breaks even at ' + (Number.isFinite(r.plan.breakevenDeposit) ? '$' + r.plan.breakevenDeposit.toFixed(0) + ' deposit' : 'no deposit size') + ' or ' + (Number.isFinite(r.plan.breakevenOdds) ? Math.round(r.plan.breakevenOdds * 100) + '%' : '—') + ' odds.'));
+right.appendChild(el('p', 'muted', 'If it launches: $' + r.plan.launchNet.toFixed(0) + ' net. ' + (Number.isFinite(r.plan.breakevenDeposit) ? 'Breaks even at $' + r.plan.breakevenDeposit.toFixed(0) + ' deposit or ' + (r.plan.breakevenOdds <= 1 ? Math.round(r.plan.breakevenOdds * 100) + '%' : '>100%') + ' odds.' : 'Never beats the T-bill at any size; needs >100% odds.') + ' At P25: ' + r.plan.p25Verdict + ' (' + money(r.plan.p25Net) + ').'));
 var share = el('table', 'mini shareTable');
 var sh = el('thead');
 var shr = el('tr');
@@ -674,7 +683,7 @@ tr.appendChild(el('td', t.kept ? 'up' : 'flat', t.kept ? 'kept' : 'tested, dropp
 tr.title = t.note;
 ot.appendChild(tr);
 });
-$('#rangeText').textContent = 'P25–P75 ran ' + v.bands.p25.toFixed(2) + '× to ' + v.bands.p75.toFixed(2) + '× of the point estimate and covered ' + Math.round(v.coverage.p25 * 100) + '% of the ' + v.coverage.n + ' residuals that set the bands; P10–P90 ran ' + v.bands.p10.toFixed(2) + '× to ' + v.bands.p90.toFixed(2) + '× and covered ' + Math.round(v.coverage.p10 * 100) + '%. Outer folds 48/77; in-sample 50/80.';
+$('#rangeText').textContent = 'P25–P75 ran ' + v.bands.p25.toFixed(2) + '× to ' + v.bands.p75.toFixed(2) + '× of the point estimate and covered ' + Math.round(v.coverage.p25 * 100) + '% of the ' + v.coverage.n + ' residuals that set the bands; P10–P90 ran ' + v.bands.p10.toFixed(2) + '× to ' + v.bands.p90.toFixed(2) + '× and covered ' + Math.round(v.coverage.p10 * 100) + '%. Outer folds 48/77; in-sample 50/80. Coverage is measured on launch value; expected value applies odds.';
 var rr = $('#rangeRow');
 rr.replaceChildren();
 [['Held out', v.coverage.n, 'live-token protocols'], ['P25–P75', Math.round(v.coverage.p25 * 100) + '%', 'covered'], ['P10–P90', Math.round(v.coverage.p10 * 100) + '%', 'covered']].forEach(function (s) {

diff --git a/lib/valuation.ts b/lib/valuation.ts
@@ -501,7 +501,7 @@ const farmPlan = (p: Protocol, launch: number, odds: number, age: number | null,
   const hurdle = BENCHMARK_RATE * (weeks / 52);
   const perDollar = expected * DROP_SHARE / p.tvl;
   const breakevenDeposit = perDollar > hurdle ? round(fees / (perDollar - hurdle), 2) : Infinity;
-  const breakevenOdds = launchDrop > 0 ? round(Math.min(1, (benchmark + fees) / launchDrop), 4) : Infinity;
+  const breakevenOdds = launchDrop > 0 ? round((benchmark + fees) / launchDrop, 4) : Infinity;
   const steps: PlanStep[] = [
     { action: `Fund a fresh wallet with $${planSize.toLocaleString('en-US')} plus about $${fees} for fees; keep the seed offline.`, cost: `$${planSize.toLocaleString('en-US')} capital`, time: '20 min' },
     { action: `Open ${name} from its official docs on ${chain}, confirm the contract address, and connect the fresh wallet.`, cost: `~$${gas} gas`, time: '10 min' },
@@ -678,7 +678,7 @@ export const buildRadar = (snapshot: Snapshot): Radar => {
   const scored = pre.map((p) => {
     const oddsRow = oddsRows.find((r) => r.p === p)!;
     const launch = Math.max(1, Math.round(value.predict(p)));
-    const odds = oddsModel.predict(oddsRow);
+    const odds = round(oddsModel.predict(oddsRow), 3);
     const implied = Math.max(1, Math.round(launch * odds));
     const age = ageDays(p, snapshot.asOf);
     const whyNot = exclusion(p);
@@ -754,8 +754,8 @@ export const buildRadar = (snapshot: Snapshot): Radar => {
 
   const checksum = (() => {
     let h = 2166136261;
-    for (const r of rows) {
-      const s = `${r.slug}|${r.rank}|${r.implied}`;
+    for (const r of rows.filter((r) => r.candidate)) {
+      const s = `${r.slug}|${r.candidateRank}|${r.implied}`;
       for (let i = 0; i < s.length; i++) {
         h ^= s.charCodeAt(i);
         h = Math.imul(h, 16777619) >>> 0;

diff --git a/dashboard/index.html b/dashboard/index.html
@@ -70,7 +70,7 @@
         <thead>
           <tr>
             <th class="starcol" title="Shortlist">&#9734;</th>
-            <th class="num" data-sort="rank">#</th>
+            <th class="num" data-sort="rank"># <small>range</small></th>
             <th data-sort="name">Protocol</th>
             <th class="num" data-sort="tvl">TVL</th>
             <th class="num" data-sort="odds">Token odds</th>
@@ -122,7 +122,7 @@
         <p class="muted">Lower Brier is better. Each row removes one term from the full model; a term is kept when removing it makes both tests worse. The base rate is the benchmark.</p>
       </article>
     </div>
-    <p class="muted">The older/newer split is a cohort holdout, not a historical forecast. Blind coverage is measured on held-out folds; in-sample is 50/80.</p>
+    <p class="muted">The older/newer split is a cohort holdout, not a historical forecast. Blind coverage is measured on launch value over held-out folds; in-sample is 50/80.</p>
     <article class="panel chartWide">
       <h3>Held-out calibration</h3>
       <p class="muted">Every dot is a live-token protocol priced by the value curve that never saw it. The dashed diagonal is a perfect call; colour is the confidence band.</p>

diff --git a/main.ts b/main.ts
@@ -70,8 +70,8 @@ const snapshot = parseSnapshot(readFileSync(inputFile, 'utf8'));
 const radar = buildRadar(snapshot);
 
 /** board.json: gate rows. Farm steps are strings here and structured steps in data.js. */
-const board = radar.rows.map((r) => {
-  const rank = r.rank;
+const board = radar.rows.filter((r) => r.candidate).map((r) => {
+  const rank = r.candidateRank!;
   const steps = r.plan.steps.map((s, i) => {
     const head = `Step ${i + 1}: `;
     const tail = ` | Cost: ${s.cost} | Time: ${s.time}`;

diff --git a/docs/CHANGELOG.md b/docs/CHANGELOG.md
@@ -193,5 +193,8 @@ Rebuilt the model to the standard the leader's public artifact showed:
   deposit, and a one-line if-it-launches net.
 - Remove the separate farm planner tab; the fourth screenshot is now the method
   and tests page. The board is compact enough for eight rows at 1280x1024.
-- Gate: dashboard source 63,0xx / 65,536; dossier text under cap; verify.mjs all
-  pass; not submitted. The final pick remains v5 at 942,846.
+- `board.json` is now the 198 candidates only, with candidate ranks; the 342-row UI keeps
+  the set-aside records for filters. Accounting groups are mutually exclusive and sum 758.
+  The integrity row checks board, data, ranks, watchlist and checksum; all pass.
+- Gate: dashboard source 64,123 / 65,536; dossier text under cap; verify.mjs all pass;
+  not submitted. The final pick remains v5 at 942,846.
